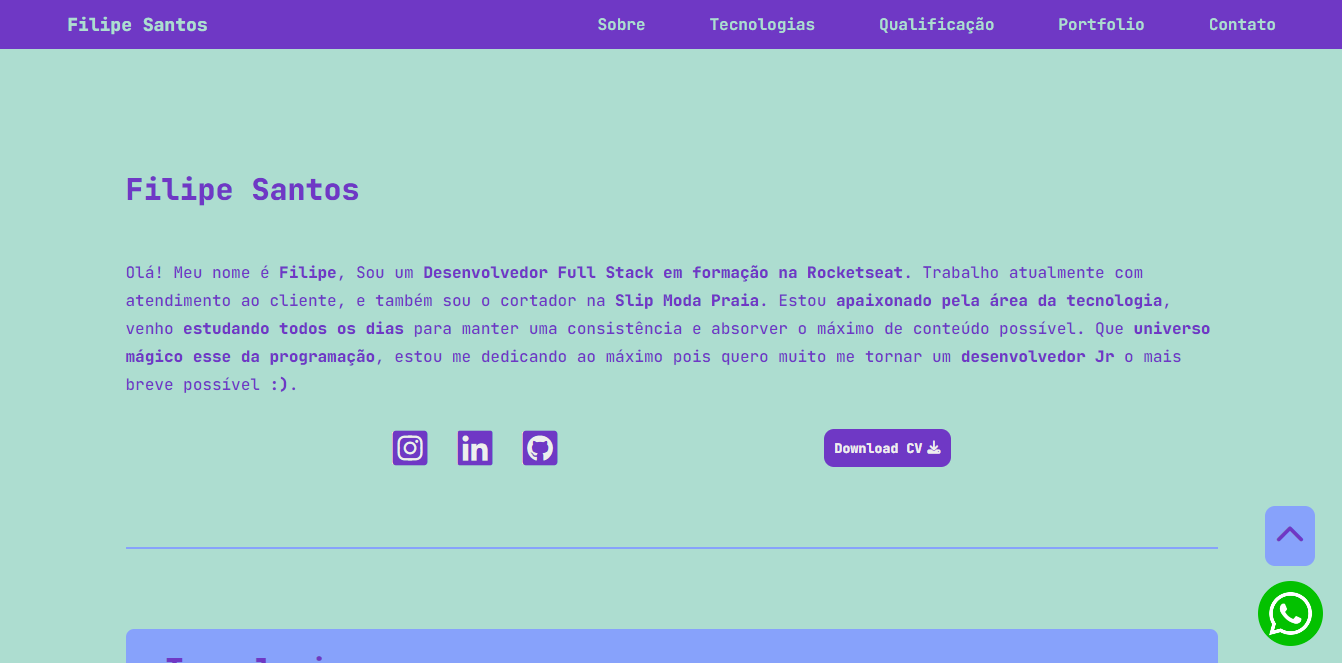
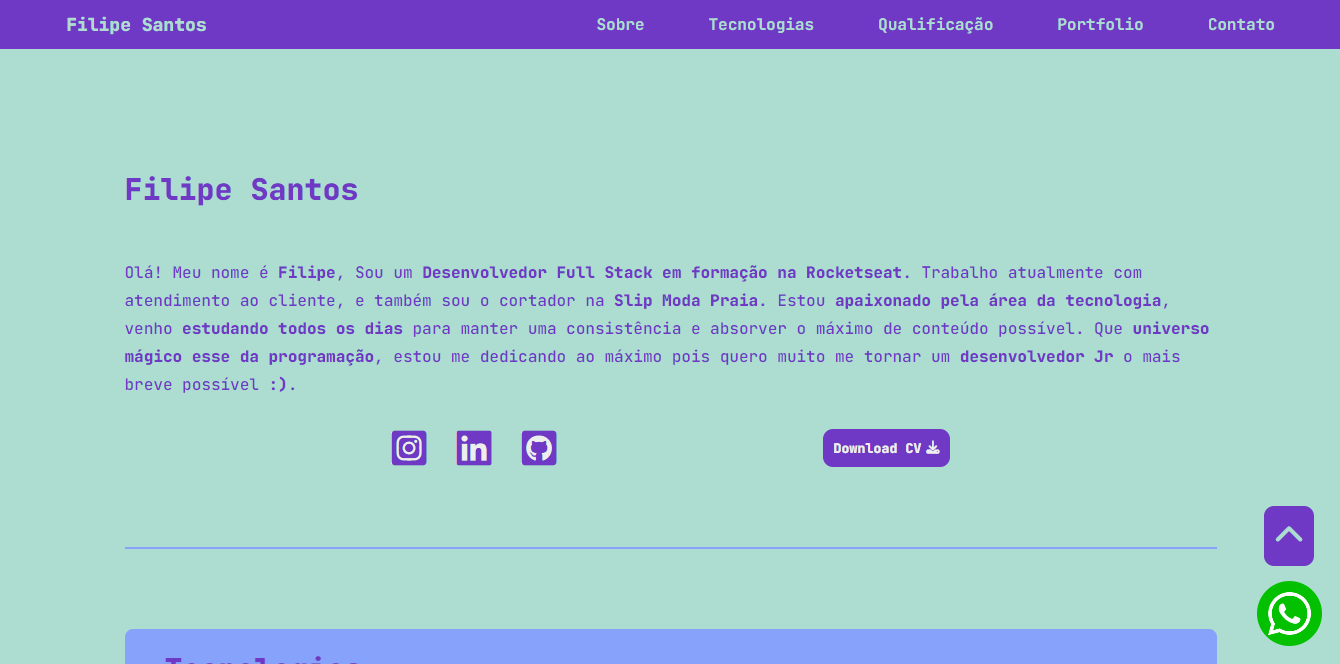
commit

diff --git a/css/style.css b/css/style.css
@@ -270,12 +270,13 @@ footer p {
     background: #87A2FB;
     cursor: pointer;
     transition: all .3s;
+    background: #6F38C5;
 }
 .toTopButton:hover {
     transform: scale(1.2);
 }
 .toTopButton i {
-    color: #6F38C5;
+    color: #ADDDD0;
 }
 .whatsapp {
     width: 65px;
@@ -346,7 +347,14 @@ footer p {
         font-size: 0.7rem;
         display: inline-block;
     }
+    .redes button {
+        gap: 0;
+    }
+    .redes ul {
+        gap: 17px;
+    }
 }
+
 @media (min-width:801px) and (max-width:999px) {
     nav ul {
         gap: 40px;
